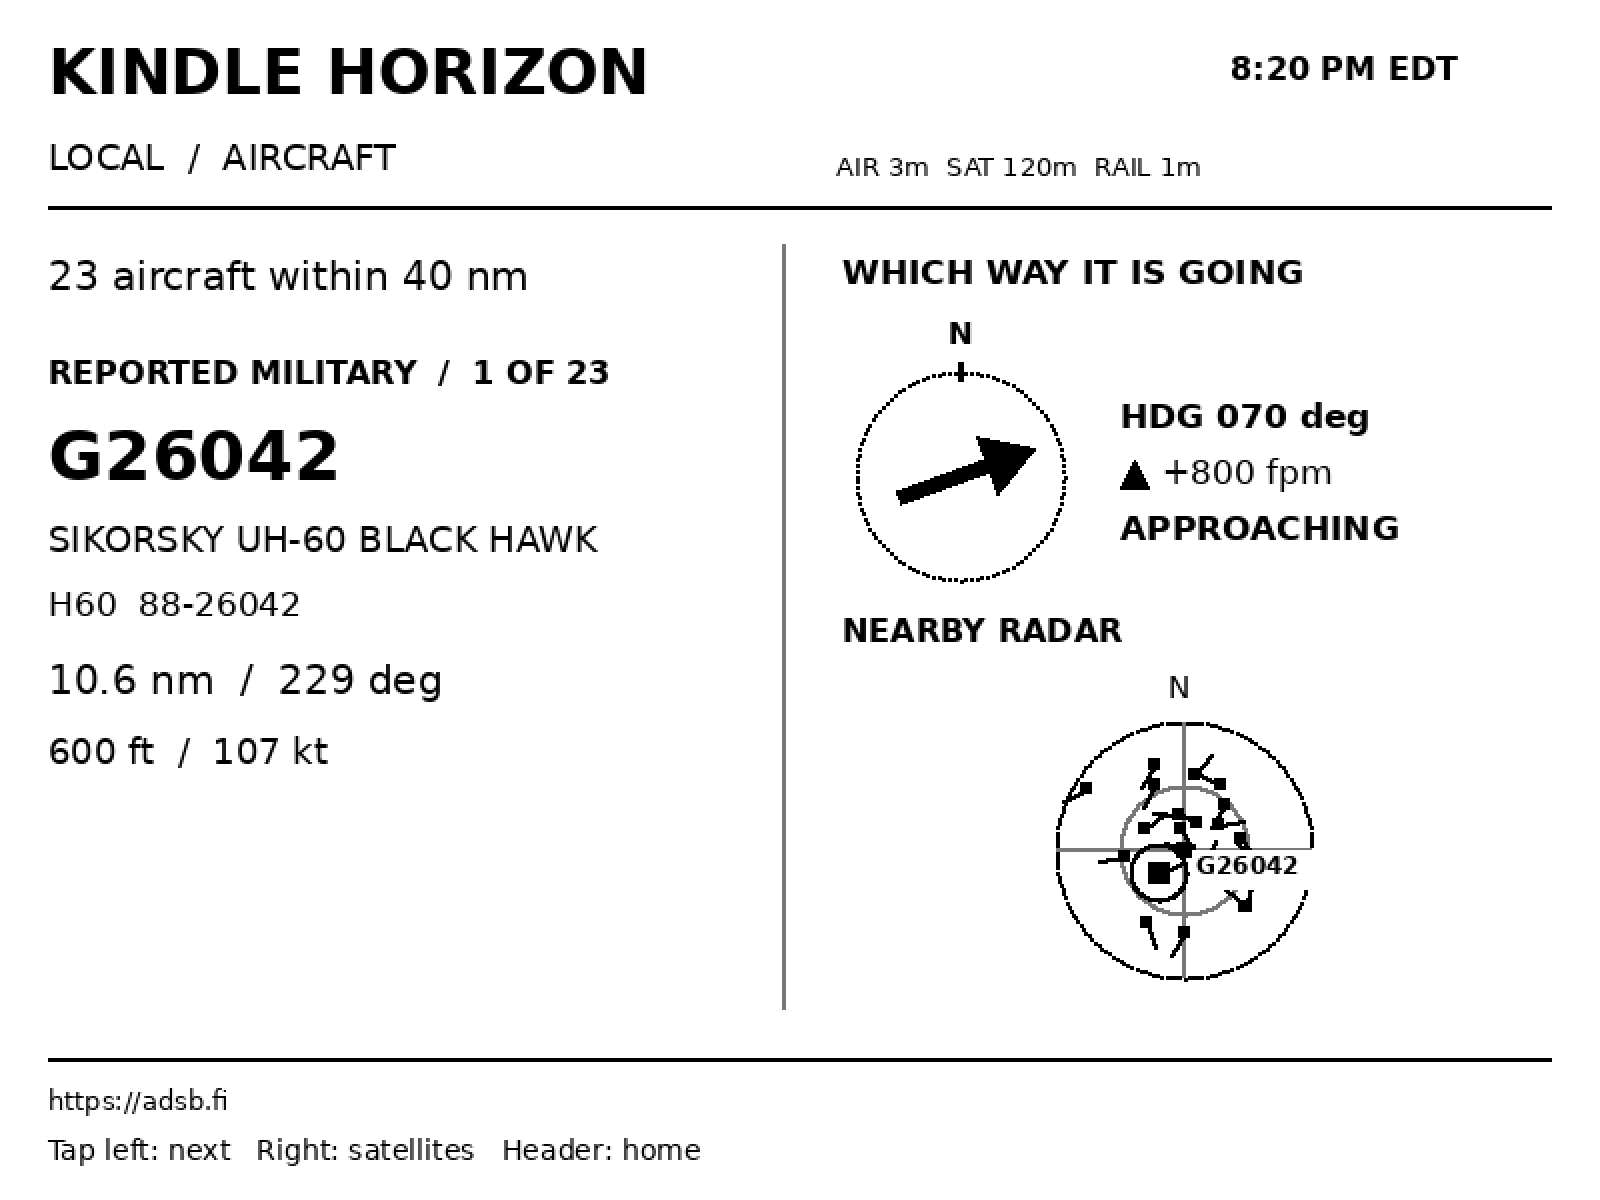
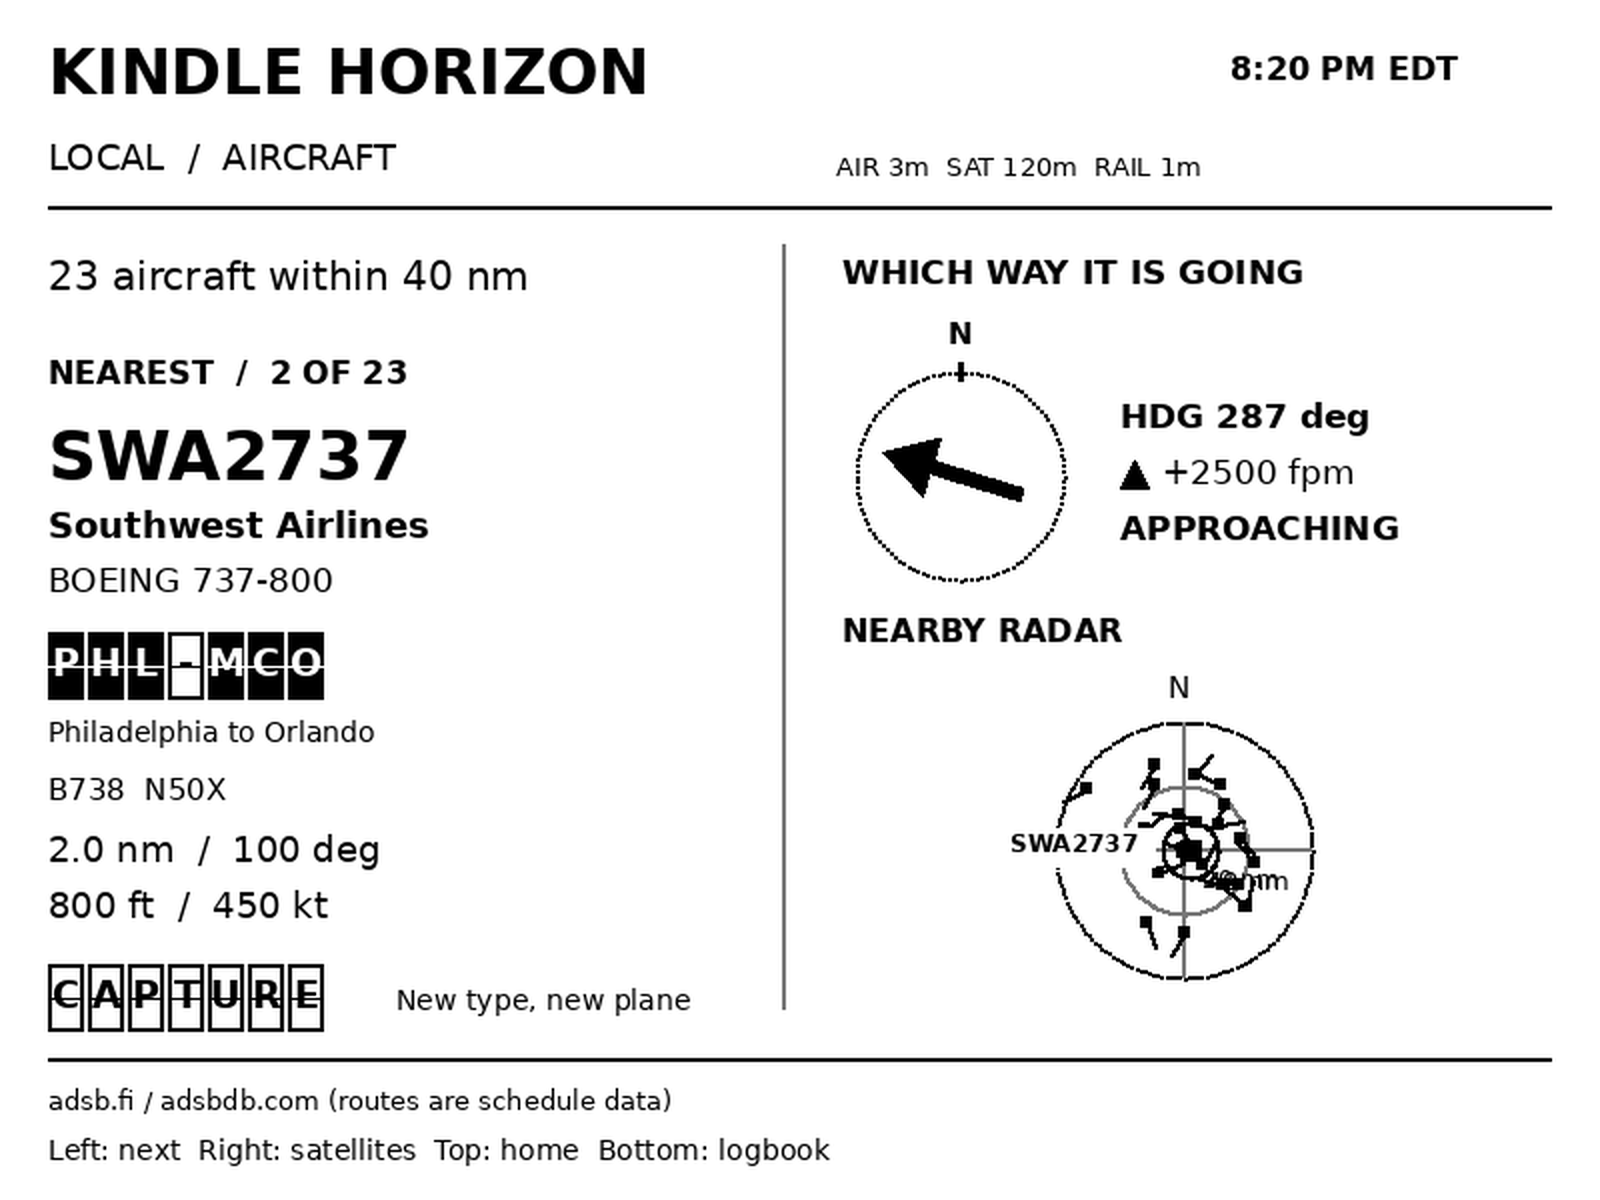
Update the project page with the flip-tile train board, route lookup and logbook (#10)
New screenshots rendered from the plugin code (aircraft with route and capture
button, capture card, logbook list, flip-tile SEPTA and London boards), a
Logbook tab and section, and the adsbdb.com credit. Capture card now says
1 TYPE / 1 PLANE in the singular.

Claude-Session: https://claude.ai/code/session_01LVs3S7E27N1AchcmP9EjP5

diff --git a/docs/index.html b/docs/index.html
@@ -4,7 +4,7 @@
 <meta charset="utf-8">
 <meta name="viewport" content="width=device-width, initial-scale=1">
 <title>Kindle Horizon</title>
-<meta name="description" content="Kindle Horizon is a KOReader plugin that shows nearby aircraft, satellites and trains on a jailbroken Kindle.">
+<meta name="description" content="Kindle Horizon is a KOReader plugin that shows nearby aircraft, satellites and trains on a jailbroken Kindle, with a logbook of what you capture.">
 <link rel="preconnect" href="https://fonts.googleapis.com">
 <link rel="preconnect" href="https://fonts.gstatic.com" crossorigin>
 <link href="https://fonts.googleapis.com/css2?family=Chivo+Mono:wght@400;500;800&display=swap" rel="stylesheet">
@@ -152,7 +152,7 @@
   <section class="section band--ink" aria-labelledby="screens-h">
     <div class="container">
       <div class="head">
-        <h2 id="screens-h">Aircraft, satellites, trains.</h2>
+        <h2 id="screens-h">Aircraft, satellites, trains, logbook.</h2>
         <p class="lead">It cycles through them on its own, or you tap to pick one.</p>
       </div>
       <div data-switch>
@@ -160,16 +160,17 @@
           <button type="button" role="tab" id="t-air" aria-selected="true" aria-controls="p-air">Aircraft</button>
           <button type="button" role="tab" id="t-sat" aria-selected="false" aria-controls="p-sat" tabindex="-1">Satellites</button>
           <button type="button" role="tab" id="t-rail" aria-selected="false" aria-controls="p-rail" tabindex="-1">Trains</button>
+          <button type="button" role="tab" id="t-log" aria-selected="false" aria-controls="p-log" tabindex="-1">Logbook</button>
         </div>
                 <div class="pane" role="tabpanel" id="p-air" aria-labelledby="t-air">
           <figure class="screen">
-        <div class="frame" data-slot="aircraft" data-kind="product" data-alt="The aircraft screen: callsign, type, altitude and speed beside a heading dial and a radar">
-          <img src="img/aircraft.png" width="1600" height="1200" alt="The aircraft screen: helicopter G26042 at 10.6 nautical miles, 600 feet, with a heading dial reading 070 and a radar with the aircraft ringed" loading="lazy">
+        <div class="frame" data-slot="aircraft" data-kind="product" data-alt="The aircraft screen: callsign, airline, route, type, altitude and speed beside a heading dial and a radar, with a capture button">
+          <img src="img/aircraft.png" width="1600" height="1200" alt="The aircraft screen: Southwest flight SWA2737, a Boeing 737-800 flying Philadelphia to Orlando, 2 nautical miles away at 800 feet, with a heading dial, a radar, and a CAPTURE button in tiles" loading="lazy">
         </div>
       </figure>
           <div class="plate">
             <div><span class="figure">40 nm</span><span class="unit">default radar range</span></div>
-            <div><h3>Aircraft</h3><p>Callsign, type, registration, altitude and speed, with a heading dial beside the radar.</p></div>
+            <div><h3>Aircraft</h3><p>Callsign, airline, route, type, registration, altitude and speed, with a heading dial beside the radar. Tap CAPTURE to log it.</p></div>
           </div>
         </div>
         <div class="pane" role="tabpanel" id="p-sat" aria-labelledby="t-sat">
@@ -185,13 +186,24 @@
         </div>
         <div class="pane" role="tabpanel" id="p-rail" aria-labelledby="t-rail">
           <figure class="screen">
-        <div class="frame" data-slot="trains" data-kind="product" data-alt="The trains screen: three SEPTA Regional Rail trains with line badges and delay bars">
-          <img src="img/rail.png" width="1600" height="1200" alt="The trains screen: three SEPTA Regional Rail trains, each with a three-letter line badge, its destination, and a bar showing how many minutes late it is" loading="lazy">
+        <div class="frame" data-slot="trains" data-kind="product" data-alt="The trains screen: a board of flip tiles listing three SEPTA Regional Rail trains with line, destination and status">
+          <img src="img/rail.png" width="1600" height="1200" alt="The trains screen drawn as a board of black flip tiles: train 428 to Center City late 3 minutes, 530 to Warminster on time, 332 to Trenton late 11, with outlined tiles for the late ones" loading="lazy">
         </div>
       </figure>
           <div class="plate">
             <div><span class="figure">2</span><span class="unit">rail feeds, SEPTA and TfL</span></div>
-            <div><h3>Trains</h3><p>Each SEPTA train gets a line badge and a delay bar. London shows arrival minutes.</p></div>
+            <div><h3>Trains</h3><p>A board of flip tiles, in the spirit of the old departure board at 30th Street Station. Only cells that change flip, and late trains get outlined tiles. Double-tap to see a flip on demand.</p></div>
+          </div>
+        </div>
+        <div class="pane" role="tabpanel" id="p-log" aria-labelledby="t-log">
+          <figure class="screen">
+        <div class="frame" data-slot="capture" data-kind="product" data-alt="The capture screen: a CAPTURED card in flip tiles with the aircraft type and registration">
+          <img src="img/capture.png" width="1600" height="1200" alt="The capture screen: flip tiles spelling CAPTURED, the type B738 and the registration N50X, beside the words Boeing 737-800, Southwest Airlines, new aircraft type and new registration" loading="lazy">
+        </div>
+      </figure>
+          <div class="plate">
+            <div><span class="figure">2</span><span class="unit">counts per capture</span></div>
+            <div><h3>Logbook</h3><p>Tap CAPTURE to confirm a plane. The tiles flip into a card, and both its type and its registration are counted.</p></div>
           </div>
         </div>
       </div>
@@ -219,6 +231,27 @@
     </div>
   </section>
 
+  <section class="section" aria-labelledby="log-h">
+    <div class="container split">
+      <div>
+        <h2 id="log-h">A logbook on the Kindle.</h2>
+        <p class="lead">Spot a plane, tap to capture it, and watch the count grow. No photos, no account.</p>
+        <dl class="facts">
+          <div><dt>Confirmed</dt><dd>Nothing is counted until you tap CAPTURE.</dd></div>
+          <div><dt>Two counts</dt><dd>Aircraft type and registration are counted separately, once per plane per day.</dd></div>
+          <div><dt>Yours</dt><dd>Saved in a file on the Kindle and never uploaded. Reset logbook erases it.</dd></div>
+          <div><dt>Routes</dt><dd>Airline and route come from adsbdb.com. They are schedule data and can be wrong.</dd></div>
+        </dl>
+      </div>
+      <figure class="screen">
+        <div class="frame" data-slot="logbook" data-kind="product" data-alt="The logbook screen: a list of aircraft types with counts">
+          <img src="img/logbook.png" width="1600" height="1200" alt="The logbook screen: six aircraft types listed with how many times each was captured, from Boeing 737-800 seen 14 times to the Airbus Beluga seen twice" loading="lazy">
+        </div>
+        <figcaption>The logbook lists each type, how often you have captured it, and when you last did.</figcaption>
+      </figure>
+    </div>
+  </section>
+
   <section class="section" aria-labelledby="needs-h" data-tight>
     <div class="container">
       <div class="head head--solo">
@@ -231,7 +264,8 @@
           <tr><th scope="row">Network</th><td>Wi-Fi for live data. A power source is recommended.</td></tr>
           <tr><th scope="row">Location</th><td>Your own latitude and longitude, entered in the menu.</td></tr>
           <tr><th scope="row">Rail</th><td>SEPTA near Philadelphia, TfL near London. Elsewhere, no train screen.</td></tr>
-          <tr><th scope="row">Data</th><td>adsb.fi for aircraft, CelesTrak for satellites. Personal, non-commercial use.</td></tr>
+          <tr><th scope="row">Data</th><td>adsb.fi for aircraft, CelesTrak for satellites, adsbdb.com for airline and route. Personal, non-commercial use.</td></tr>
+          <tr><th scope="row">Logbook</th><td>Stored on the Kindle. Route lookup can be turned off in the menu.</td></tr>
         </tbody>
       </table>
     </div>
@@ -253,7 +287,7 @@
       </div>
       <figure class="screen">
         <div class="frame" data-slot="london" data-kind="product" data-alt="The trains screen for London: three Underground and Elizabeth line arrivals with minutes to go">
-          <img src="img/london.png" width="1600" height="1200" alt="The London trains screen: Central line to Ealing Broadway in 2 minutes, Northern line to Morden in 5, Elizabeth line to Reading in 9" loading="lazy">
+          <img src="img/london.png" width="1600" height="1200" alt="The London trains screen as flip tiles: Central line to Ealing Broadway in 2 minutes, Northern line to Morden in 5, Elizabeth line to Reading in 9" loading="lazy">
         </div>
         <figcaption>In London it shows arrival minutes at the nearest station.</figcaption>
       </figure>
@@ -270,7 +304,7 @@
       <a href="https://github.com/raygilbert/kindle-sky/blob/main/docs/DATA_AND_LIMITS.md">Data and limits</a>
       <a href="https://github.com/raygilbert/kindle-sky/blob/main/LICENSE">MIT licence</a>
     </nav>
-    <p class="colophon">Aircraft from adsb.fi, satellites from CelesTrak, rail from SEPTA and TfL. Kindle Horizon is an independent plugin and is not part of KOReader.</p>
+    <p class="colophon">Aircraft from adsb.fi, airline and route from adsbdb.com, satellites from CelesTrak, rail from SEPTA and TfL. Kindle Horizon is an independent plugin and is not part of KOReader.</p>
   </div>
 </footer>
 
